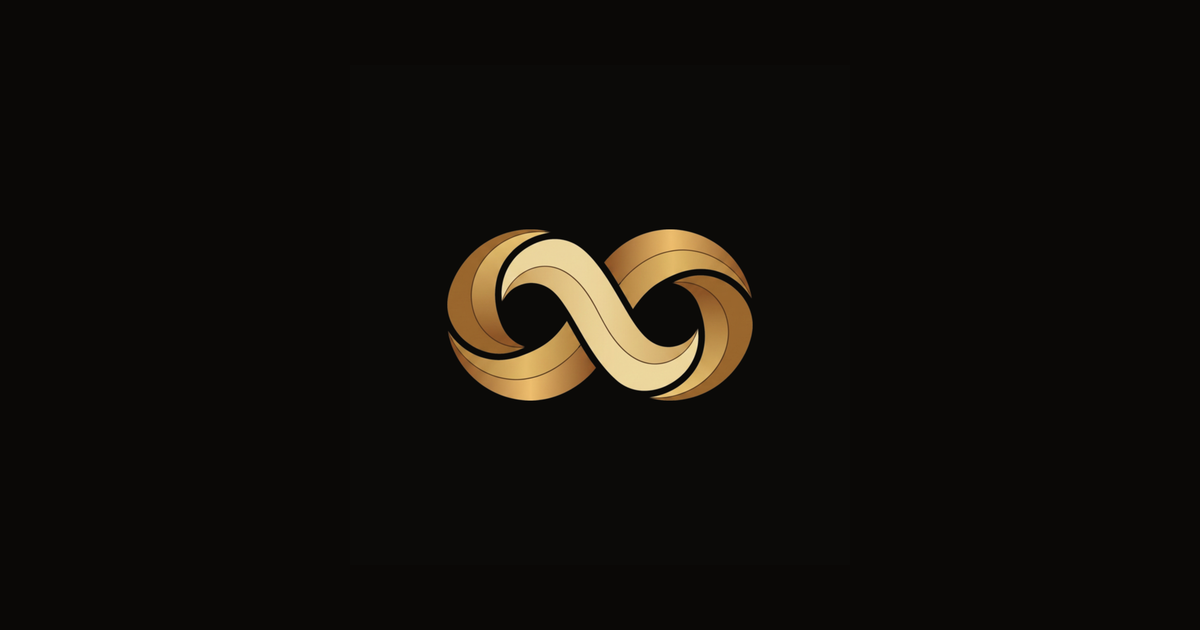
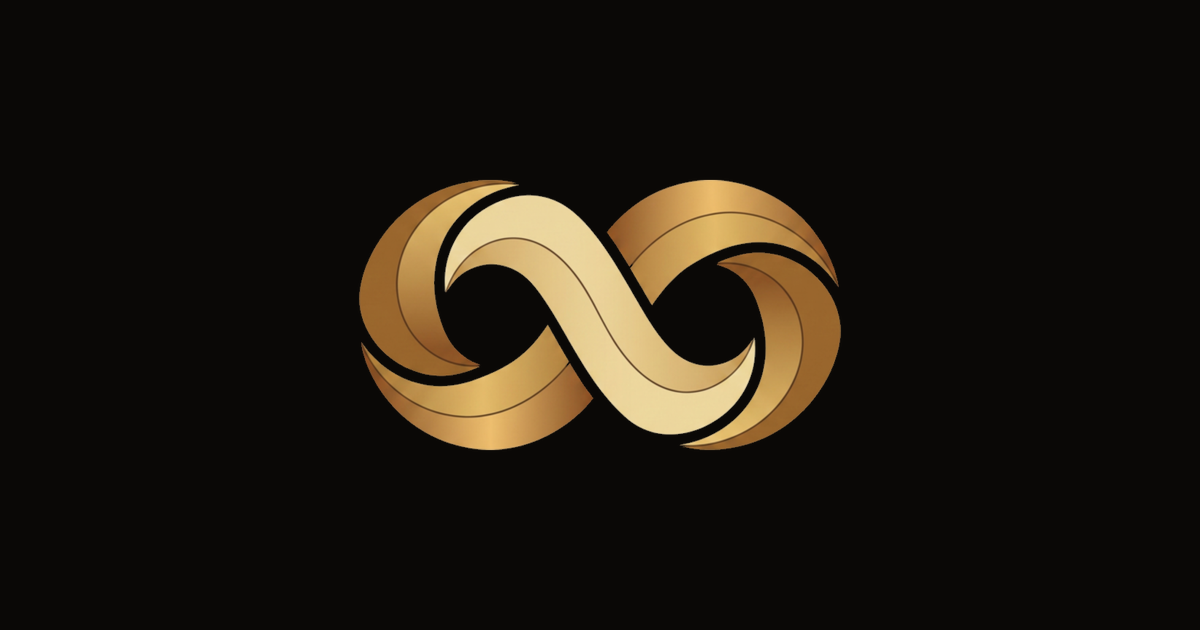
fix(brand): the mark gets transparency, a tight crop, and full size
The brand PNG is the gold knot on a solid black square, and it shipped as-is:
every surface showed a black box with a small mark inside, dimmed further by
AdminLTE's opacity-75 on the sidebar. The background is now flood-filled to
transparency FROM THE EDGES, so the dark linework inside the knot (enclosed
by gold, unreachable from the border) survives where a global black-to-alpha
would punch holes through the logo. Cropped to the mark's real bounds
(660x370 in a 1080 square - two thirds of the canvas was dead border) and
re-squared with 4% breathing room.

Regenerated from the cleaned master (kept at docs/virtastic-mark.png): the
dashboard logo.svg, both game-page favicons, and og.png with the mark at
520px now that it has no dead border. The sidebar image goes 28px-and-dimmed
to 40px wide at full strength, keeping its own aspect.

Game-page favicons are live immediately (bind mount); the dashboard logo
lands at the next container rebuild, held until the operator is out of the
mod chooser.

Changed region(s): [[0.2775, 0.2714, 0.7092, 0.7238]]

diff --git a/play/index.html b/play/index.html
@@ -19,7 +19,7 @@
 <meta name="twitter:title" content="Morrowind in your browser">
 <meta name="twitter:description" content="The OpenMW engine compiled to WebAssembly. Play at morrowind.virtastic.app.">
 <meta name="twitter:image" content="https://morrowind.virtastic.app/og.png">
[2 lines of base64/hex data omitted]
 <style>
  html,body{margin:0;padding:0;width:100%;height:100%;overflow:hidden;background:#000}
  /* Windowless: the canvas fills the entire browser viewport; its drawing buffer is driven

diff --git a/play/launcher.html b/play/launcher.html
@@ -37,7 +37,7 @@
  "publisher":{"@type":"Organization","name":"Virtastic","url":"https://virtastic.app"},
  "license":"https://www.gnu.org/licenses/gpl-3.0.html"}
 </script>
[2 lines of base64/hex data omitted]
 <style>
  :root{
    /* Volcanic Vvardenfell: ash + Dwemer bronze + a low Red Mountain ember */

diff --git a/server/web/app.css b/server/web/app.css
@@ -124,7 +124,9 @@ body.vt-bare #pageTitle {
 
 .app-sidebar { background: var(--vt-panel) !important; border-right: 1px solid var(--vt-line); }
 .sidebar-brand { background: var(--vt-panel-2); border-bottom: 1px solid var(--vt-line); }
-.brand-image { width: 28px; height: 28px; margin-right: .5rem; }
+/* The mark is wide (an infinity knot), so it gets width and keeps its own aspect; 28px and
+   the AdminLTE opacity-75 dim made it read as a smudge. Full strength, sized to the bar. */
+.brand-image { width: 40px; height: auto; margin-right: .5rem; }
 /* AdminLTE sets .brand-link colour on the anchor, which wins over a bare .brand-text rule
    by specificity. Scoped here so the gold actually lands rather than only appearing to. */
 .sidebar-brand .brand-link .brand-text {

diff --git a/server/web/index.html b/server/web/index.html
@@ -73,7 +73,7 @@
   <aside class="app-sidebar shadow">
     <div class="sidebar-brand">
       <a href="#overview" class="brand-link">
-        <img src="/admin/static/logo.svg" alt="" class="brand-image opacity-75">
+        <img src="/admin/static/logo.svg" alt="" class="brand-image">
         <span class="brand-text fw-light">OpenMW-Web</span>
       </a>
     </div>
